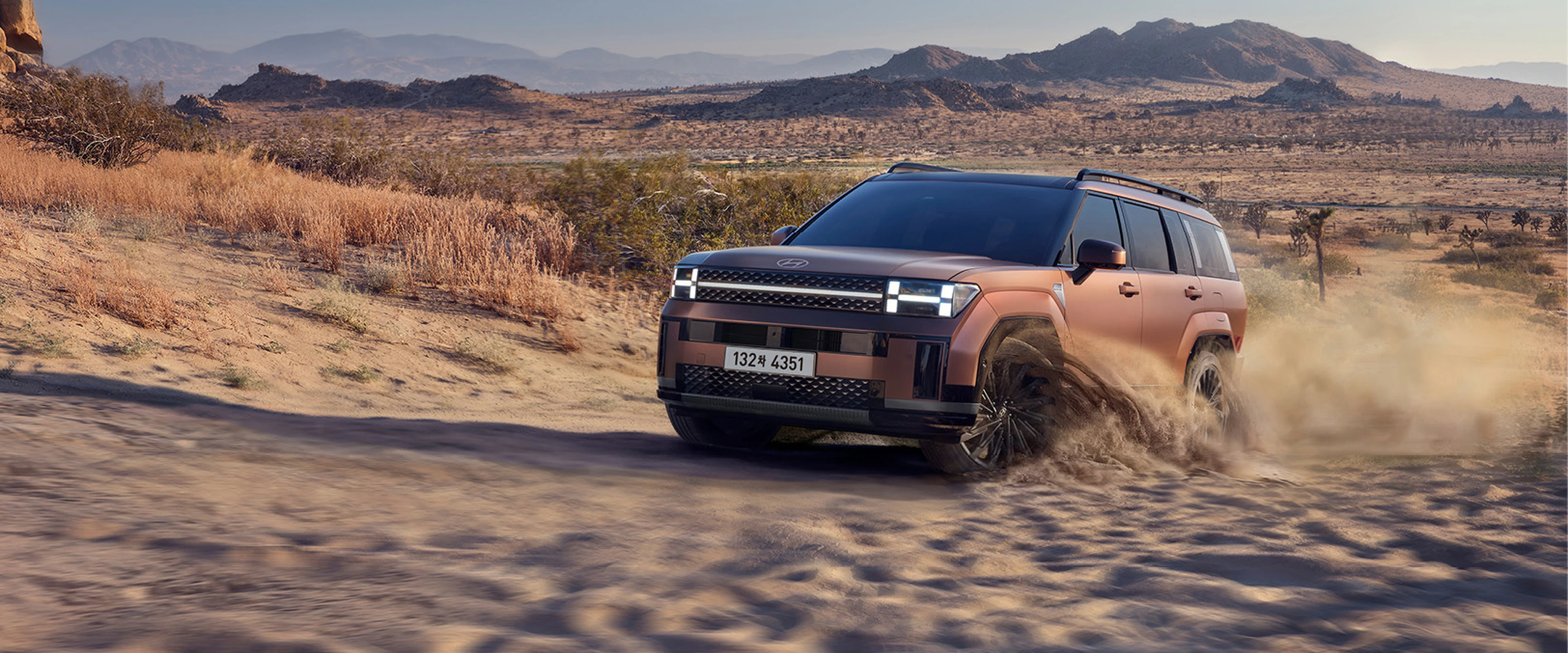
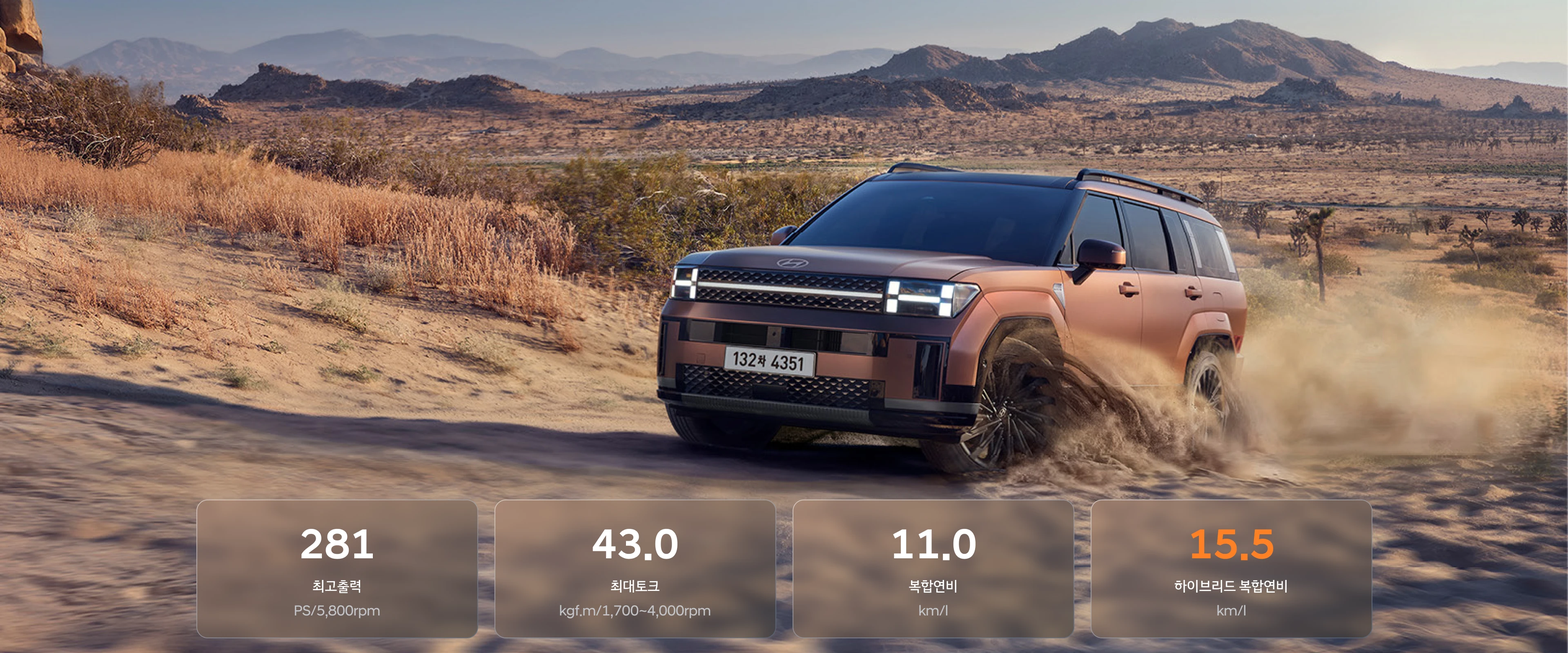
신차 소개 Driving Banner를 수정합니다

Changed region(s): [[0.125, 0.75, 0.875, 1.0], [0.8438, 0.9375, 0.875, 0.9688], [0.8125, 0.9688, 0.8438, 1.0]]

diff --git a/strawberry/src/core/design_system/ImageEnum.ts b/strawberry/src/core/design_system/ImageEnum.ts
@@ -1,6 +1,5 @@
 export const ImageEnum = {
-  FONTS: {
-  },
+  FONTS: {},
   ICONS: {
     CLOSE: "/assets/icons/Close.svg",
     ARROW_DOWN_L_WHITE: "/assets/icons/arrow_Down_L_White.svg",
@@ -28,7 +27,8 @@ export const ImageEnum = {
     EVENT_BADGE_BONUS: "/assets/icons/event_badge_bonus.svg",
     EVENT_BADGE_BONUS_DISABLED: "/assets/icons/event_badge_bonus_disabled.svg",
     EVENT_BADGE_NORMAL: "/assets/icons/event_badge_normal.svg",
-    EVENT_BADGE_NORMAL_DISABLED: "/assets/icons/event_badge_normal_disabled.svg",
+    EVENT_BADGE_NORMAL_DISABLED:
+      "/assets/icons/event_badge_normal_disabled.svg",
     GOLDRANKBADGE: "/assets/icons/goldRankBadge.svg",
     GREENBADGEINFO: "/assets/icons/greenBadgeInfo.svg",
     NORMALRANKBADGE: "/assets/icons/normalRankBadge.svg",
@@ -42,107 +42,124 @@ export const ImageEnum = {
     URLBUTTON: "/assets/icons/urlButton.svg",
   },
   IMAGES: {
-  DRAWING: {
-    CELEBRATION: "/assets/images/drawing/celebration.gif",
-    GUIDE_01: "/assets/images/drawing/guide_01.webp",
-    GUIDE_02: "/assets/images/drawing/guide_02.webp",
-    GUIDE_03: "/assets/images/drawing/guide_03.webp",
-    GUIDE_04: "/assets/images/drawing/guide_04.webp",
-    GUIDE_05: "/assets/images/drawing/guide_05.webp",
-  },
-  NEWCAR: {
-    DESIGN_BANNER: "/assets/images/newCar/design_banner.webp",
-    DRIVING_BANNER: "/assets/images/newCar/driving_banner.webp",
-    EXTERIOR_BLACK: "/assets/images/newCar/exterior_black.webp",
-    EXTERIOR_BLACKINK_BLACK: "/assets/images/newCar/exterior_blackInk_black.webp",
-    EXTERIOR_BLACKINK_WHITEMATTE: "/assets/images/newCar/exterior_blackInk_whiteMatte.webp",
-    EXTERIOR_BLACKINK_WHITEPEARL: "/assets/images/newCar/exterior_blackInk_whitePearl.webp",
-    EXTERIOR_BLACK_COLOR: "/assets/images/newCar/exterior_black_color.webp",
-    EXTERIOR_BLUE: "/assets/images/newCar/exterior_blue.webp",
-    EXTERIOR_BLUE_COLOR: "/assets/images/newCar/exterior_blue_color.webp",
-    EXTERIOR_BROWN: "/assets/images/newCar/exterior_brown.webp",
-    EXTERIOR_BROWN_COLOR: "/assets/images/newCar/exterior_brown_color.webp",
-    EXTERIOR_CYBER: "/assets/images/newCar/exterior_cyber.webp",
-    EXTERIOR_CYBER_COLOR: "/assets/images/newCar/exterior_cyber_color.webp",
-    EXTERIOR_FRONT_01: "/assets/images/newCar/exterior_front_01.webp",
-    EXTERIOR_FRONT_02: "/assets/images/newCar/exterior_front_02.webp",
-    EXTERIOR_FRONT_03_1: "/assets/images/newCar/exterior_front_03_1.webp",
-    EXTERIOR_FRONT_03_2: "/assets/images/newCar/exterior_front_03_2.webp",
-    EXTERIOR_FRONT_04_1: "/assets/images/newCar/exterior_front_04_1.webp",
-    EXTERIOR_FRONT_04_2: "/assets/images/newCar/exterior_front_04_2.webp",
-    EXTERIOR_FRONT_04_3: "/assets/images/newCar/exterior_front_04_3.webp",
-    EXTERIOR_FRONT_04_4: "/assets/images/newCar/exterior_front_04_4.webp",
-    EXTERIOR_FRONT_04_5: "/assets/images/newCar/exterior_front_04_5.webp",
-    EXTERIOR_FRONT_BACKGROUND: "/assets/images/newCar/exterior_front_background.webp",
-    EXTERIOR_GRAY: "/assets/images/newCar/exterior_gray.webp",
-    EXTERIOR_GRAY_COLOR: "/assets/images/newCar/exterior_gray_color.webp",
-    EXTERIOR_GREEN: "/assets/images/newCar/exterior_green.webp",
-    EXTERIOR_GREEN_COLOR: "/assets/images/newCar/exterior_green_color.webp",
-    EXTERIOR_ORANGE: "/assets/images/newCar/exterior_orange.webp",
-    EXTERIOR_ORANGE_COLOR: "/assets/images/newCar/exterior_orange_color.webp",
-    EXTERIOR_REAR_01: "/assets/images/newCar/exterior_rear_01.webp",
-    EXTERIOR_REAR_02: "/assets/images/newCar/exterior_rear_02.webp",
-    EXTERIOR_REAR_03_1: "/assets/images/newCar/exterior_rear_03_1.webp",
-    EXTERIOR_REAR_03_2: "/assets/images/newCar/exterior_rear_03_2.webp",
-    EXTERIOR_REAR_04: "/assets/images/newCar/exterior_rear_04.webp",
-    EXTERIOR_REAR_05: "/assets/images/newCar/exterior_rear_05.webp",
-    EXTERIOR_REAR_BACKGROUND: "/assets/images/newCar/exterior_rear_background.webp",
-    EXTERIOR_WHITEMATTE_COLOR: "/assets/images/newCar/exterior_whiteMatte_color.webp",
-    EXTERIOR_WHITEPEARL: "/assets/images/newCar/exterior_whitePearl.webp",
-    EXTERIOR_WHITEPEARL_COLOR: "/assets/images/newCar/exterior_whitePearl_color.webp",
-    GALLERY_EXTERIOR: "/assets/images/newCar/gallery_exterior.webp",
-    GALLERY_INTERIOR: "/assets/images/newCar/gallery_interior.webp",
-    HYBRID01: "/assets/images/newCar/hybrid01.webp",
-    HYBRID02: "/assets/images/newCar/hybrid02.webp",
-    HYBRID03: "/assets/images/newCar/hybrid03.webp",
-    HYBRID04: "/assets/images/newCar/hybrid04.webp",
-    INTERIOR_01: "/assets/images/newCar/interior_01.webp",
-    INTERIOR_02: "/assets/images/newCar/interior_02.webp",
-    INTERIOR_03: "/assets/images/newCar/interior_03.webp",
-    INTERIOR_04: "/assets/images/newCar/interior_04.webp",
-    INTERIOR_05: "/assets/images/newCar/interior_05.webp",
-    INTERIOR_06: "/assets/images/newCar/interior_06.webp",
-    INTERIOR_07: "/assets/images/newCar/interior_07.webp",
-    INTERIOR_BACKGROUND: "/assets/images/newCar/interior_background.webp",
-    INTERIOR_BEIGE: "/assets/images/newCar/interior_beige.webp",
-    INTERIOR_BEIGE_COLOR: "/assets/images/newCar/interior_beige_color.webp",
-    INTERIOR_BLACK: "/assets/images/newCar/interior_black.webp",
-    INTERIOR_BLACKINK_COLOR: "/assets/images/newCar/interior_blackInk_color.webp",
-    INTERIOR_BLACK_COLOR: "/assets/images/newCar/interior_black_color.webp",
-    INTERIOR_BLACKINK: "/assets/images/newCar/interior_blackink.webp",
-    INTERIOR_BROWN: "/assets/images/newCar/interior_brown.webp",
-    INTERIOR_BROWN_COLOR: "/assets/images/newCar/interior_brown_color.webp",
-    INTERIOR_EXCLUSIVE_FAKEBLACK: "/assets/images/newCar/interior_exclusive_fakeblack.webp",
-    INTERIOR_FAKEBLACK_COLOR: "/assets/images/newCar/interior_fakeBlack_color.webp",
-    INTERIOR_GRAY_COLOR: "/assets/images/newCar/interior_gray_color.webp",
-    INTERIOR_PRESTIGE_BROWN: "/assets/images/newCar/interior_prestige_brown.webp",
-    INTERIOR_PRESTIGE_FAKEBLACK: "/assets/images/newCar/interior_prestige_fakeblack.webp",
-    INTERIOR_PRESTIGE_GRAY: "/assets/images/newCar/interior_prestige_gray.webp",
-    INTERIOR_PRESTIGE_REALBLACK: "/assets/images/newCar/interior_prestige_realblack.webp",
-    INTERIOR_REALBLACK_COLOR: "/assets/images/newCar/interior_realBlack_color.webp",
-    NEWCAR_BANNER_BACKGROUND: "/assets/images/newCar/newcar_banner_background.webp",
-    NEWCAR_BANNER_CAR: "/assets/images/newCar/newcar_banner_car.webp",
-    PARTS1: "/assets/images/newCar/parts1.webp",
-    PARTS2: "/assets/images/newCar/parts2.webp",
-    PARTS3: "/assets/images/newCar/parts3.webp",
-    PARTS4: "/assets/images/newCar/parts4.webp",
-    SPACE_5: "/assets/images/newCar/space_5.webp",
-    SPACE_6: "/assets/images/newCar/space_6.webp",
-    SPACE_7: "/assets/images/newCar/space_7.webp",
-    SPACE_BANNER: "/assets/images/newCar/space_banner.webp",
-    TECH01: "/assets/images/newCar/tech01.webp",
-    TECH02: "/assets/images/newCar/tech02.webp",
-    TECH03: "/assets/images/newCar/tech03.webp",
-    TECH04: "/assets/images/newCar/tech04.webp",
-    TECH05: "/assets/images/newCar/tech05.webp",
-    TECH06: "/assets/images/newCar/tech06.webp",
-    TECH07: "/assets/images/newCar/tech07.webp",
-  },
+    DRAWING: {
+      CELEBRATION: "/assets/images/drawing/celebration.gif",
+      GUIDE_01: "/assets/images/drawing/guide_01.webp",
+      GUIDE_02: "/assets/images/drawing/guide_02.webp",
+      GUIDE_03: "/assets/images/drawing/guide_03.webp",
+      GUIDE_04: "/assets/images/drawing/guide_04.webp",
+      GUIDE_05: "/assets/images/drawing/guide_05.webp",
+    },
+    NEWCAR: {
+      DESIGN_BANNER: "/assets/images/newCar/design_banner.webp",
+      DRIVING_BANNER: "/assets/images/newCar/driving_banner.webp",
+      EXTERIOR_BLACK: "/assets/images/newCar/exterior_black.webp",
+      EXTERIOR_BLACKINK_BLACK:
+        "/assets/images/newCar/exterior_blackInk_black.webp",
+      EXTERIOR_BLACKINK_WHITEMATTE:
+        "/assets/images/newCar/exterior_blackInk_whiteMatte.webp",
+      EXTERIOR_BLACKINK_WHITEPEARL:
+        "/assets/images/newCar/exterior_blackInk_whitePearl.webp",
+      EXTERIOR_BLACK_COLOR: "/assets/images/newCar/exterior_black_color.webp",
+      EXTERIOR_BLUE: "/assets/images/newCar/exterior_blue.webp",
+      EXTERIOR_BLUE_COLOR: "/assets/images/newCar/exterior_blue_color.webp",
+      EXTERIOR_BROWN: "/assets/images/newCar/exterior_brown.webp",
+      EXTERIOR_BROWN_COLOR: "/assets/images/newCar/exterior_brown_color.webp",
+      EXTERIOR_CYBER: "/assets/images/newCar/exterior_cyber.webp",
+      EXTERIOR_CYBER_COLOR: "/assets/images/newCar/exterior_cyber_color.webp",
+      EXTERIOR_FRONT_01: "/assets/images/newCar/exterior_front_01.webp",
+      EXTERIOR_FRONT_02: "/assets/images/newCar/exterior_front_02.webp",
+      EXTERIOR_FRONT_03_1: "/assets/images/newCar/exterior_front_03_1.webp",
+      EXTERIOR_FRONT_03_2: "/assets/images/newCar/exterior_front_03_2.webp",
+      EXTERIOR_FRONT_04_1: "/assets/images/newCar/exterior_front_04_1.webp",
+      EXTERIOR_FRONT_04_2: "/assets/images/newCar/exterior_front_04_2.webp",
+      EXTERIOR_FRONT_04_3: "/assets/images/newCar/exterior_front_04_3.webp",
+      EXTERIOR_FRONT_04_4: "/assets/images/newCar/exterior_front_04_4.webp",
+      EXTERIOR_FRONT_04_5: "/assets/images/newCar/exterior_front_04_5.webp",
+      EXTERIOR_FRONT_BACKGROUND:
+        "/assets/images/newCar/exterior_front_background.webp",
+      EXTERIOR_GRAY: "/assets/images/newCar/exterior_gray.webp",
+      EXTERIOR_GRAY_COLOR: "/assets/images/newCar/exterior_gray_color.webp",
+      EXTERIOR_GREEN: "/assets/images/newCar/exterior_green.webp",
+      EXTERIOR_GREEN_COLOR: "/assets/images/newCar/exterior_green_color.webp",
+      EXTERIOR_ORANGE: "/assets/images/newCar/exterior_orange.webp",
+      EXTERIOR_ORANGE_COLOR: "/assets/images/newCar/exterior_orange_color.webp",
+      EXTERIOR_REAR_01: "/assets/images/newCar/exterior_rear_01.webp",
+      EXTERIOR_REAR_02: "/assets/images/newCar/exterior_rear_02.webp",
+      EXTERIOR_REAR_03_1: "/assets/images/newCar/exterior_rear_03_1.webp",
+      EXTERIOR_REAR_03_2: "/assets/images/newCar/exterior_rear_03_2.webp",
+      EXTERIOR_REAR_04: "/assets/images/newCar/exterior_rear_04.webp",
+      EXTERIOR_REAR_05: "/assets/images/newCar/exterior_rear_05.webp",
+      EXTERIOR_REAR_BACKGROUND:
+        "/assets/images/newCar/exterior_rear_background.webp",
+      EXTERIOR_WHITEMATTE_COLOR:
+        "/assets/images/newCar/exterior_whiteMatte_color.webp",
+      EXTERIOR_WHITEPEARL: "/assets/images/newCar/exterior_whitePearl.webp",
+      EXTERIOR_WHITEPEARL_COLOR:
+        "/assets/images/newCar/exterior_whitePearl_color.webp",
+      GALLERY_EXTERIOR: "/assets/images/newCar/gallery_exterior.webp",
+      GALLERY_INTERIOR: "/assets/images/newCar/gallery_interior.webp",
+      HYBRID01: "/assets/images/newCar/hybrid01.webp",
+      HYBRID02: "/assets/images/newCar/hybrid02.webp",
+      HYBRID03: "/assets/images/newCar/hybrid03.webp",
+      HYBRID04: "/assets/images/newCar/hybrid04.webp",
+      INTERIOR_01: "/assets/images/newCar/interior_01.webp",
+      INTERIOR_02: "/assets/images/newCar/interior_02.webp",
+      INTERIOR_03: "/assets/images/newCar/interior_03.webp",
+      INTERIOR_04: "/assets/images/newCar/interior_04.webp",
+      INTERIOR_05: "/assets/images/newCar/interior_05.webp",
+      INTERIOR_06: "/assets/images/newCar/interior_06.webp",
+      INTERIOR_07: "/assets/images/newCar/interior_07.webp",
+      INTERIOR_BACKGROUND: "/assets/images/newCar/interior_background.webp",
+      INTERIOR_BEIGE: "/assets/images/newCar/interior_beige.webp",
+      INTERIOR_BEIGE_COLOR: "/assets/images/newCar/interior_beige_color.webp",
+      INTERIOR_BLACK: "/assets/images/newCar/interior_black.webp",
+      INTERIOR_BLACKINK_COLOR:
+        "/assets/images/newCar/interior_blackInk_color.webp",
+      INTERIOR_BLACK_COLOR: "/assets/images/newCar/interior_black_color.webp",
+      INTERIOR_BLACKINK: "/assets/images/newCar/interior_blackink.webp",
+      INTERIOR_BROWN: "/assets/images/newCar/interior_brown.webp",
+      INTERIOR_BROWN_COLOR: "/assets/images/newCar/interior_brown_color.webp",
+      INTERIOR_EXCLUSIVE_FAKEBLACK:
+        "/assets/images/newCar/interior_exclusive_fakeblack.webp",
+      INTERIOR_FAKEBLACK_COLOR:
+        "/assets/images/newCar/interior_fakeBlack_color.webp",
+      INTERIOR_GRAY_COLOR: "/assets/images/newCar/interior_gray_color.webp",
+      INTERIOR_PRESTIGE_BROWN:
+        "/assets/images/newCar/interior_prestige_brown.webp",
+      INTERIOR_PRESTIGE_FAKEBLACK:
+        "/assets/images/newCar/interior_prestige_fakeblack.webp",
+      INTERIOR_PRESTIGE_GRAY:
+        "/assets/images/newCar/interior_prestige_gray.webp",
+      INTERIOR_PRESTIGE_REALBLACK:
+        "/assets/images/newCar/interior_prestige_realblack.webp",
+      INTERIOR_REALBLACK_COLOR:
+        "/assets/images/newCar/interior_realBlack_color.webp",
+      NEWCAR_BANNER_BACKGROUND:
+        "/assets/images/newCar/newcar_banner_background.webp",
+      NEWCAR_BANNER_CAR: "/assets/images/newCar/newcar_banner_car.webp",
+      PARTS1: "/assets/images/newCar/parts1.webp",
+      PARTS2: "/assets/images/newCar/parts2.webp",
+      PARTS3: "/assets/images/newCar/parts3.webp",
+      PARTS4: "/assets/images/newCar/parts4.webp",
+      SPACE_5: "/assets/images/newCar/space_5.webp",
+      SPACE_6: "/assets/images/newCar/space_6.webp",
+      SPACE_7: "/assets/images/newCar/space_7.webp",
+      SPACE_BANNER: "/assets/images/newCar/space_banner.webp",
+      TECH01: "/assets/images/newCar/tech01.webp",
+      TECH02: "/assets/images/newCar/tech02.webp",
+      TECH03: "/assets/images/newCar/tech03.webp",
+      TECH04: "/assets/images/newCar/tech04.webp",
+      TECH05: "/assets/images/newCar/tech05.webp",
+      TECH06: "/assets/images/newCar/tech06.webp",
+      TECH07: "/assets/images/newCar/tech07.webp",
+    },
   },
   LOGOS: {
-    HYUNDAI_MOTOR_COMPANY_LOGO_1: "/assets/logos/Hyundai_Motor_Company_logo_1.svg",
+    HYUNDAI_MOTOR_COMPANY_LOGO_1:
+      "/assets/logos/Hyundai_Motor_Company_logo_1.svg",
     HYUNDAILOGINBUTTON: "/assets/logos/hyundaiLoginButton.svg",
     HYUNDAI_LOGO: "/assets/logos/hyundai_logo.svg",
     NAVERLOGINBUTTON: "/assets/logos/naverLoginButton.svg",
   },
-}
+};

diff --git a/strawberry/src/pages/newCar/components/driving/DrivingBanner.tsx b/strawberry/src/pages/newCar/components/driving/DrivingBanner.tsx
@@ -1,8 +1,26 @@
-import { ImageEnum } from "../../../../core/design_system";
+import {
+  theme,
+  ImageEnum,
+  Label,
+  Wrapper,
+} from "../../../../core/design_system";
 
 function DrivingBanner() {
   return (
     <section>
+      <Wrapper
+        display="flex"
+        $flexdirection="column"
+        $alignitems="center"
+        $margin="0 0 40px 0"
+      >
+        <Label $token="Display1Medium" color={theme.Color.TextIcon.default}>
+          Driving
+        </Label>
+        <Label $token="Title2Regular" color={theme.Color.TextIcon.sub}>
+          일상과 아웃도어를 넘나들며 다양하게 공간을 활용할 수 있습니다.
+        </Label>
+      </Wrapper>
       <img
         loading="lazy"
         src={ImageEnum.IMAGES.NEWCAR.DRIVING_BANNER}
